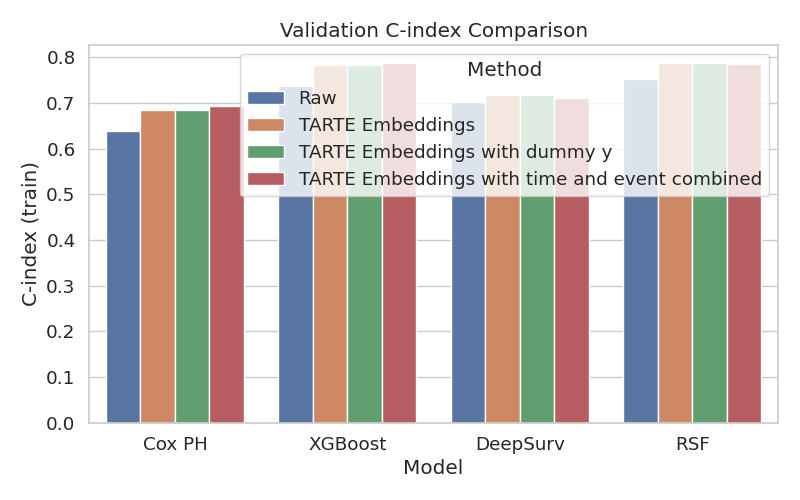
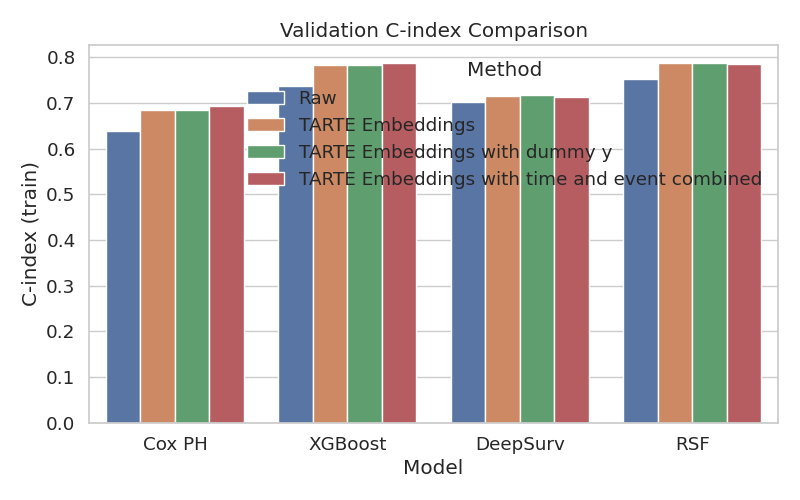
add function descriptions

Changed region(s): [[0.3125, 0.09, 0.9688, 0.42], [0.2812, 0.21, 0.3125, 0.39]]

diff --git a/experiments/tfm_embedding_comparison.py b/experiments/tfm_embedding_comparison.py
@@ -1,20 +1,14 @@
 
 """
+Experiment with TARTE embedding extraction.
 Compare all baseline models by running them sequentially and collecting results.
 """
 import time
 import pandas as pd
-import seaborn as sns
-import matplotlib.pyplot as plt
-if not hasattr(pd.Series, "iteritems"):
-    pd.Series.iteritems = pd.Series.items
-_old_describe = pd.DataFrame.describe
-def _describe_compat(self, *args, **kwargs):
-    kwargs.pop("datetime_is_numeric", None)
-    return _old_describe(self, *args, **kwargs)
-pd.DataFrame.describe = _describe_compat
 import warnings
 warnings.filterwarnings("ignore", message="TypedStorage is deprecated")
+import seaborn as sns
+import matplotlib.pyplot as plt
 import sys
 sys.path.append("/")
 
@@ -25,6 +19,85 @@ from deepsurv.DeepSurv import train_deepsurv_model, evaluate_deepsurv_model
 from RSF.RSF import train_rsf_model, evaluate_rsf_model
 from tfm.TARTE.extract_embeddings import get_embeddings_tarte, get_embeddings_dummy_tarte, get_embeddings_combination_tarte
 
+def plot_results_absolute(df_all):
+    import os
+    my_path = os.path.dirname(os.path.dirname(os.path.abspath(__file__)))
+
+    sns.set_theme(style="whitegrid", font_scale=1.2)
+
+    # --- Plot C-index (train) ---
+    plt.figure(figsize=(8, 5))
+    sns.barplot(data=df_all, x="Model", y="C-index (train)", hue="Method")
+    plt.title("Validation C-index Comparison")
+    #plt.ylim(0.5, 1)
+    plt.legend(title="Method", framealpha=0.0)
+    plt.tight_layout()
+    plt.savefig(my_path + "/images/C_train.png")
+
+    # --- Plot C-index (val) ---
+    plt.figure(figsize=(8, 5))
+    sns.barplot(data=df_all, x="Model", y="C-index (val)", hue="Method")
+    plt.title("Validation C-index Comparison")
+    #plt.ylim(0.5, 1)
+    plt.legend(title="Method", framealpha=0.0)
+    plt.tight_layout()
+    plt.savefig(my_path + "/images/C_val.png")
+
+    # --- Plot IBS (val) ---
+    plt.figure(figsize=(8, 5))
+    sns.barplot(data=df_all, x="Model", y="IBS (val)", hue="Method")
+    plt.title("Validation IBS Comparison (lower is better)")
+    plt.legend(title="Method", framealpha=0.0)
+    plt.tight_layout()
+    plt.savefig(my_path + "/images/IBS.png")
+
+    # --- Plot training time ---
+    plt.figure(figsize=(8, 5))
+    sns.barplot(data=df_all, x="Model", y="Time (s)", hue="Method")
+    plt.title("Training Time by Method")
+    plt.legend(title="Method", framealpha=0.0)
+    plt.tight_layout()
+    plt.savefig(my_path + "/images/Time.png")
+
+def plot_results_relative(df_all):
+    import os
+    my_path = os.path.dirname(os.path.dirname(os.path.abspath(__file__)))
+
+    sns.set_theme(style="whitegrid", font_scale=1.2)
+
+    # --- Plot C-index (train) ---
+    plt.figure(figsize=(8, 5))
+    sns.barplot(data=df_all, x="Model", y="C-index (train) to Baseline", hue="Method")
+    plt.title("Validation C-index Comparison")
+    #plt.ylim(0.5, 1)
+    plt.legend(title="Method", framealpha=0.0)
+    plt.tight_layout()
+    plt.savefig(my_path + "/images/C_train_rel.png")
+
+    # --- Plot C-index (val) ---
+    plt.figure(figsize=(8, 5))
+    sns.barplot(data=df_all, x="Model", y="C-index (val) to Baseline", hue="Method")
+    plt.title("Validation C-index Comparison")
+    #plt.ylim(0.5, 1)
+    plt.legend(title="Method", framealpha=0.0)
+    plt.tight_layout()
+    plt.savefig(my_path + "/images/C_val_rel.png")
+
+    # --- Plot IBS (val) ---
+    plt.figure(figsize=(8, 5))
+    sns.barplot(data=df_all, x="Model", y="IBS (val) to Baseline", hue="Method")
+    plt.title("Validation IBS Comparison (lower is better)")
+    plt.legend(title="Method", framealpha=0.0)
+    plt.tight_layout()
+    plt.savefig(my_path + "/images/IBS_rel.png")
+
+    # --- Plot training time ---
+    plt.figure(figsize=(8, 5))
+    sns.barplot(data=df_all, x="Model", y="Time (s) to Baseline", hue="Method")
+    plt.title("Training Time by Method")
+    plt.legend(title="Method", framealpha=0.0)
+    plt.tight_layout()
+    plt.savefig(my_path + "/images/Time_rel.png")
 
 def baselines_evaluate_embeddings(dataset='METABRIC', normalize=True, test_size=0.2, random_state=42, embeddings_flag=None):
     """Run all baselines on raw data and embeddings and collect results."""
@@ -54,25 +127,25 @@ def baselines_evaluate_embeddings(dataset='METABRIC', normalize=True, test_size=
     print(f"Event rate (val):   {e_val.mean():.2%}")
 
     if embeddings_flag=="emb":
-        print(f">>> TARTE Embeddings with no target")
-        print("\nExtract TARTE embeddings ...")
+        print(f"\n>>> TARTE Embeddings with no target\n")
+        print("Extract TARTE embeddings ...")
         X_train, X_val = get_embeddings_tarte(X_train, X_val)
         X_train_sk, X_val_sk = X_train, X_val
         print("Run Baselines on embeddings")
     elif embeddings_flag=="dummy":
-        print(f">>> TARTE Embeddings with dummy target")
-        print("\nExtract TARTE embeddings with dummy y ...")
+        print(f"\n>>> TARTE Embeddings with dummy target\n")
+        print("Extract TARTE embeddings with dummy y ...")
         X_train, X_val = get_embeddings_dummy_tarte(X_train, X_val)
         X_train_sk, X_val_sk = X_train, X_val
         print("Run Baselines on embeddings")
     elif embeddings_flag == "combi":
-        print(f">>> TARTE Embeddings for time and event combined")
-        print("\nExtract TARTE embeddings with time and event combined...")
+        print(f"\n>>> TARTE Embeddings for time and event combined\n")
+        print("Extract TARTE embeddings with time and event combined...")
         X_train, X_val = get_embeddings_combination_tarte(X_train, X_val, t_train, e_train)
         X_train_sk, X_val_sk = X_train, X_val
         print("Run Baselines on embeddings")
     else:
-        print(f">>> Use raw data for baseline predictions")
+        print(f"\n>>> Use raw data for baseline predictions\n")
 
     results = []
 
@@ -158,86 +231,6 @@ def baselines_evaluate_embeddings(dataset='METABRIC', normalize=True, test_size=
 
     return results
 
-def plot_results_relative(df_all):
-    import os
-    my_path = os.path.dirname(os.path.dirname(os.path.abspath(__file__)))
-
-    sns.set_theme(style="whitegrid", font_scale=1.2)
-
-    # --- Plot C-index (train) ---
-    plt.figure(figsize=(8, 5))
-    sns.barplot(data=df_all, x="Model", y="C-index (train) to Baseline", hue="Method")
-    plt.title("Validation C-index Comparison")
-    #plt.ylim(0.5, 1)
-    plt.legend(title="Method")
-    plt.tight_layout()
-    plt.savefig(my_path + "/images/C_train_rel.png")
-
-    # --- Plot C-index (val) ---
-    plt.figure(figsize=(8, 5))
-    sns.barplot(data=df_all, x="Model", y="C-index (val) to Baseline", hue="Method")
-    plt.title("Validation C-index Comparison")
-    #plt.ylim(0.5, 1)
-    plt.legend(title="Method")
-    plt.tight_layout()
-    plt.savefig(my_path + "/images/C_val_rel.png")
-
-    # --- Plot IBS (val) ---
-    plt.figure(figsize=(8, 5))
-    sns.barplot(data=df_all, x="Model", y="IBS (val) to Baseline", hue="Method")
-    plt.title("Validation IBS Comparison (lower is better)")
-    plt.legend(title="Method")
-    plt.tight_layout()
-    plt.savefig(my_path + "/images/IBS_rel.png")
-
-    # --- Plot training time ---
-    plt.figure(figsize=(8, 5))
-    sns.barplot(data=df_all, x="Model", y="Time (s) to Baseline", hue="Method")
-    plt.title("Training Time by Method")
-    plt.legend(title="Method")
-    plt.tight_layout()
-    plt.savefig(my_path + "/images/Time_rel.png")
-
-def plot_results_absolute(df_all):
-    import os
-    my_path = os.path.dirname(os.path.dirname(os.path.abspath(__file__)))
-
-    sns.set_theme(style="whitegrid", font_scale=1.2)
-
-    # --- Plot C-index (train) ---
-    plt.figure(figsize=(8, 5))
-    sns.barplot(data=df_all, x="Model", y="C-index (train)", hue="Method")
-    plt.title("Validation C-index Comparison")
-    #plt.ylim(0.5, 1)
-    plt.legend(title="Method")
-    plt.tight_layout()
-    plt.savefig(my_path + "/images/C_train.png")
-
-    # --- Plot C-index (val) ---
-    plt.figure(figsize=(8, 5))
-    sns.barplot(data=df_all, x="Model", y="C-index (val)", hue="Method")
-    plt.title("Validation C-index Comparison")
-    #plt.ylim(0.5, 1)
-    plt.legend(title="Method")
-    plt.tight_layout()
-    plt.savefig(my_path + "/images/C_val.png")
-
-    # --- Plot IBS (val) ---
-    plt.figure(figsize=(8, 5))
-    sns.barplot(data=df_all, x="Model", y="IBS (val)", hue="Method")
-    plt.title("Validation IBS Comparison (lower is better)")
-    plt.legend(title="Method")
-    plt.tight_layout()
-    plt.savefig(my_path + "/images/IBS.png")
-
-    # --- Plot training time ---
-    plt.figure(figsize=(8, 5))
-    sns.barplot(data=df_all, x="Model", y="Time (s)", hue="Method")
-    plt.title("Training Time by Method")
-    plt.legend(title="Method")
-    plt.tight_layout()
-    plt.savefig(my_path + "/images/Time.png")
-
 if __name__ == "__main__":
     raw_results = baselines_evaluate_embeddings(embeddings_flag=None)
     emb_results = baselines_evaluate_embeddings(embeddings_flag="emb")
@@ -274,4 +267,3 @@ if __name__ == "__main__":
 
     plot_results_absolute(all_results)
     plot_results_relative(all_results)
-    # run_comparison(dataset='GBSG')  # To test on GBSG dataset

diff --git a/tfm/TARTE/extract_embeddings.py b/tfm/TARTE/extract_embeddings.py
@@ -4,7 +4,7 @@ from tarte_ai import TARTE_TableEncoder, TARTE_TablePreprocessor
 from sklearn.pipeline import Pipeline
 
 """
-Extracts embeddings from a TARTE model for downstream tasks.
+Extracts embeddings from TARTE for downstream tasks
 """
 def get_embeddings_tarte(X_train, X_test):
     tarte_tab_prepper = TARTE_TablePreprocessor()
@@ -24,6 +24,33 @@ def get_embeddings_tarte(X_train, X_test):
     )
     return train_embeddings, test_embeddings
 
+"""
+Extracts embeddings from TARTE by using a dummy target y
+"""
+def get_embeddings_dummy_tarte(X_train, X_test):
+    tarte_tab_prepper = TARTE_TablePreprocessor()
+    tarte_tab_encoder = TARTE_TableEncoder()
+    prep_pipe = Pipeline([("prep", tarte_tab_prepper), ("tabenc", tarte_tab_encoder)])
+    # dummy variable
+    y_dummy = pd.Series(1, index=np.arange(len(X_train)))
+    # get embeddings
+    train_emb = prep_pipe.fit_transform(X_train, y_dummy)
+    test_emb = prep_pipe.transform(X_test)
+    # Wrap embeddings in DataFrames
+    train_embeddings = pd.DataFrame(
+        train_emb, columns=[f"x{i}" for i in range(train_emb.shape[1])],
+        index=X_train.index
+    )
+    test_embeddings = pd.DataFrame(
+        test_emb, columns=[f"x{i}" for i in range(test_emb.shape[1])],
+        index=X_test.index
+    )
+    return train_embeddings, test_embeddings
+
+"""
+Extracts embeddings from TARTE by using time and event as targets separately 
+    and concatenate the respective embeddings
+"""
 def get_embeddings_combination_tarte(X_train, X_test, t_train, e_train):
     tarte_tab_prepper = TARTE_TablePreprocessor()
     tarte_tab_encoder = TARTE_TableEncoder()
@@ -41,26 +68,6 @@ def get_embeddings_combination_tarte(X_train, X_test, t_train, e_train):
         test_emb_event = prep_pipe.transform(X_test)
     train_emb = np.concatenate([train_emb_time, train_emb_event], axis=1)
     test_emb = np.concatenate([test_emb_time, test_emb_event], axis=1)
-    # Wrap embeddings in DataFrames
-    train_embeddings = pd.DataFrame(
-        train_emb, columns=[f"x{i}" for i in range(train_emb.shape[1])],
-        index=X_train.index
-    )
-    test_embeddings = pd.DataFrame(
-        test_emb, columns=[f"x{i}" for i in range(test_emb.shape[1])],
-        index=X_test.index
-    )
-    return train_embeddings, test_embeddings
-
-def get_embeddings_dummy_tarte(X_train, X_test):
-    tarte_tab_prepper = TARTE_TablePreprocessor()
-    tarte_tab_encoder = TARTE_TableEncoder()
-    prep_pipe = Pipeline([("prep", tarte_tab_prepper), ("tabenc", tarte_tab_encoder)])
-    # dummy variable
-    y_dummy = pd.Series(1, index=np.arange(len(X_train)))
-    # get embeddings
-    train_emb = prep_pipe.fit_transform(X_train, y_dummy)
-    test_emb = prep_pipe.transform(X_test)
     # Wrap embeddings in DataFrames
     train_embeddings = pd.DataFrame(
         train_emb, columns=[f"x{i}" for i in range(train_emb.shape[1])],

diff --git a/experiments/compare_baselines.py b/experiments/compare_baselines.py
@@ -3,14 +3,6 @@ Compare all baseline models by running them sequentially and collecting results.
 """
 import time
 import numpy as np
-import pandas as pd
-if not hasattr(pd.Series, "iteritems"):
-    pd.Series.iteritems = pd.Series.items
-_old_describe = pd.DataFrame.describe
-def _describe_compat(self, *args, **kwargs):
-    kwargs.pop("datetime_is_numeric", None)
-    return _old_describe(self, *args, **kwargs)
-pd.DataFrame.describe = _describe_compat
 from tabulate import tabulate
 
 # Import all baseline models
